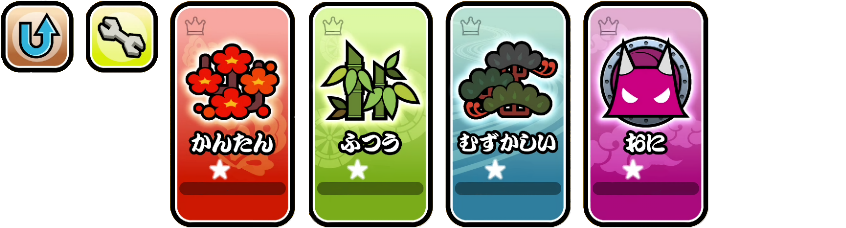
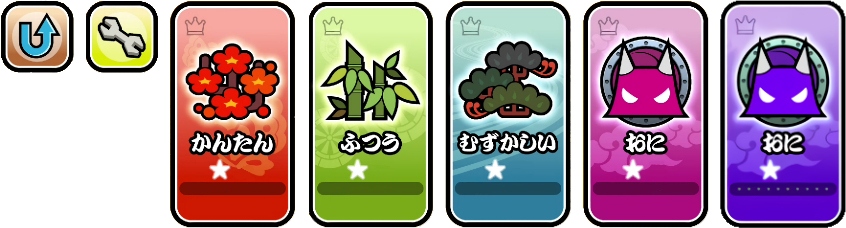
難易度選択画面について既知の問題を修正、裏のバーを追加

Changed region(s): [[0.8298, 0.0, 1.0, 1.0]]

diff --git a/TJAPlayer3/Stages/05.SongSelect/CActSelect難易度選択画面.cs b/TJAPlayer3/Stages/05.SongSelect/CActSelect難易度選択画面.cs
@@ -203,7 +203,7 @@ namespace TJAPlayer3
                 //キー操作
                 if (!b曲選択)
                 {
-                    if (TJAPlayer3.Pad.b押されたDGB(Eパッド.RBlue) &&
+                    if (TJAPlayer3.Pad.b押されたDGB(Eパッド.RBlue) ||
                             TJAPlayer3.Input管理.Keyboard.bキーが押された((int)SlimDX.DirectInput.Key.RightArrow))
                     {
                         this.t次に移動();
@@ -330,12 +330,12 @@ namespace TJAPlayer3
                         {
                             if (b裏譜面)
                             {
-                                if (TJAPlayer3.stage選曲.r現在選択中の曲.arスコア[i].譜面情報.クリア[i])
-                                    TJAPlayer3.Tx.Difficulty_Crown.t2D拡大率考慮中央基準描画(TJAPlayer3.app.Device, 480 + 4 * 138, 292, new Rectangle(0 * 24, 0, 24, 26));
-                                if (TJAPlayer3.stage選曲.r現在選択中の曲.arスコア[i].譜面情報.フルコンボ[i])
-                                    TJAPlayer3.Tx.Difficulty_Crown.t2D拡大率考慮中央基準描画(TJAPlayer3.app.Device, 480 + 4 * 138, 292, new Rectangle(1 * 24, 0, 24, 26));
-                                if (TJAPlayer3.stage選曲.r現在選択中の曲.arスコア[i].譜面情報.ドンダフルコンボ[i])
-                                    TJAPlayer3.Tx.Difficulty_Crown.t2D拡大率考慮中央基準描画(TJAPlayer3.app.Device, 480 + 4 * 138, 292, new Rectangle(2 * 24, 0, 24, 26));
+                                if (TJAPlayer3.stage選曲.r現在選択中の曲.arスコア[4].譜面情報.クリア[4])
+                                    TJAPlayer3.Tx.Difficulty_Crown.t2D拡大率考慮中央基準描画(TJAPlayer3.app.Device, 480 + 3 * 138, 292, new Rectangle(0 * 24, 0, 24, 26));
+                                if (TJAPlayer3.stage選曲.r現在選択中の曲.arスコア[4].譜面情報.フルコンボ[4])
+                                    TJAPlayer3.Tx.Difficulty_Crown.t2D拡大率考慮中央基準描画(TJAPlayer3.app.Device, 480 + 3 * 138, 292, new Rectangle(1 * 24, 0, 24, 26));
+                                if (TJAPlayer3.stage選曲.r現在選択中の曲.arスコア[4].譜面情報.ドンダフルコンボ[4])
+                                    TJAPlayer3.Tx.Difficulty_Crown.t2D拡大率考慮中央基準描画(TJAPlayer3.app.Device, 480 + 3 * 138, 292, new Rectangle(2 * 24, 0, 24, 26));
                             }
                         }
                     }
